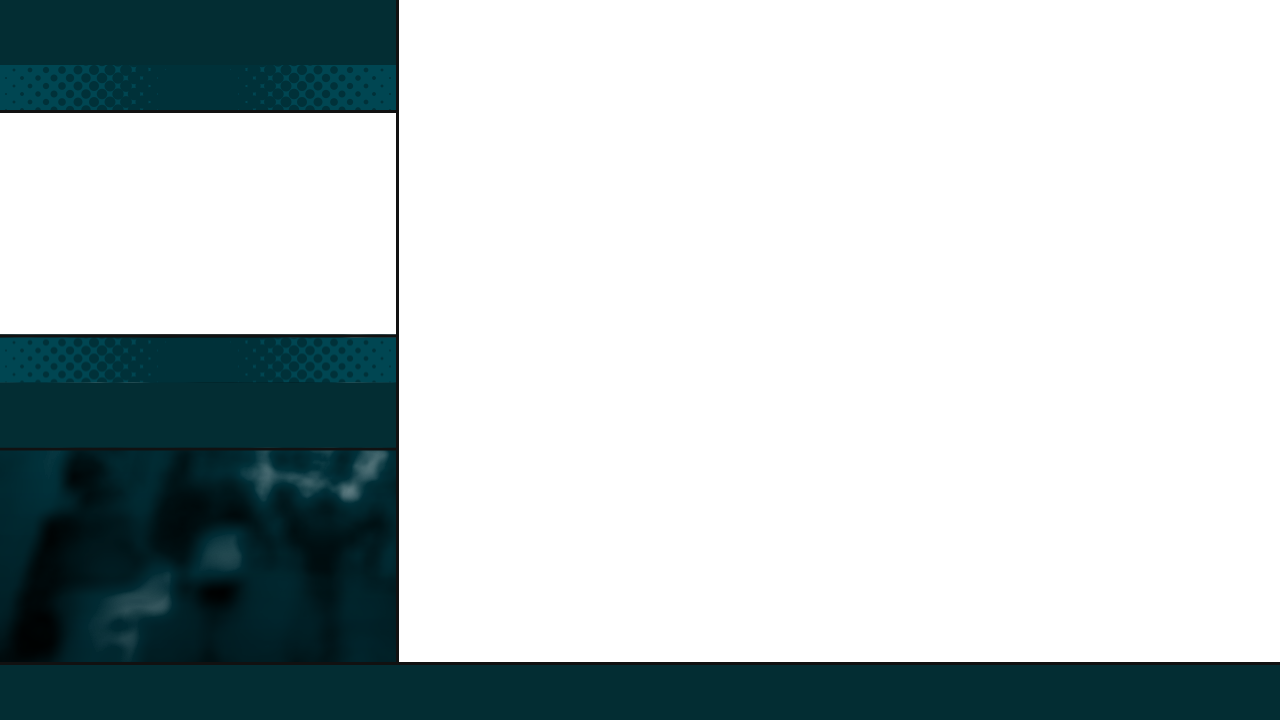
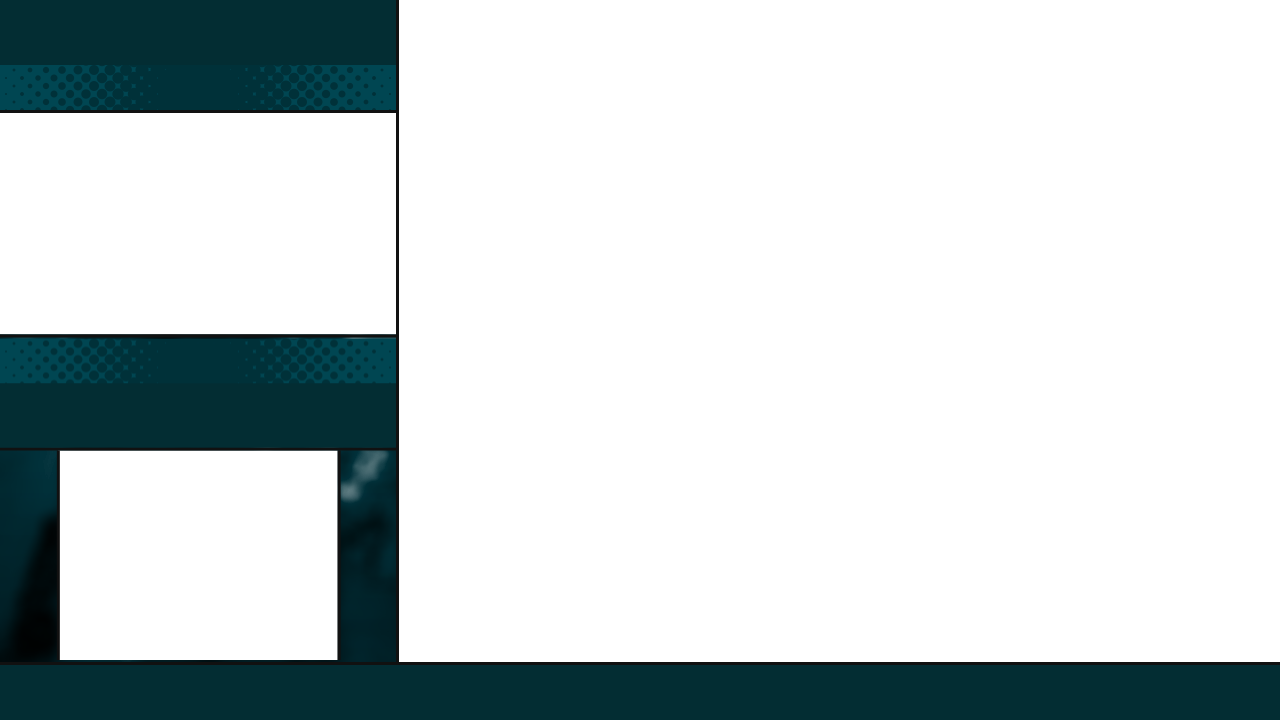
DS layouts

Changed region(s): [[0.0312, 0.6111, 0.2812, 0.9167]]

diff --git a/graphics/DS_nocam.html b/graphics/DS_nocam.html
@@ -9,7 +9,7 @@
    <link rel="stylesheet" href="css/DS.css" />
    <style>
       body {
-         background: url('img/layouts/cam/Calithon_DS.png') no-repeat;
+         background: url('img/layouts/nocam/Calithon_DS.png') no-repeat;
          background-size: 1920px 1080px;
       }
    </style>
@@ -37,6 +37,11 @@
          <img src="img/common/timer.svg" id="estimate-label" />
          <div id="estimate"></div>
       </div>
+   </div>
+
+   <!-- Sponsor area -->
+   <div id="sponsor-container">
+      <img id="sponsor-img" />
    </div>
 
    <!-- Timer -->

diff --git a/graphics/css/ds.css b/graphics/css/ds.css
@@ -45,11 +45,10 @@
 
 /* Sponsor panel. */
 #sponsor-container {
-    width: 585px;
-    height: 315px;
+    width: 594px;
+    height: 333px;
     left: 0;
-    top: 677px;
-    margin: 0.5rem;
+    top: 169px;
 }
 
 /* Max sponsor image size. */
